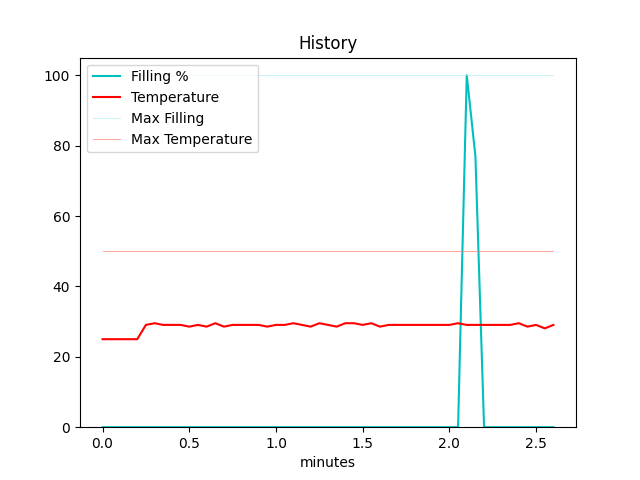
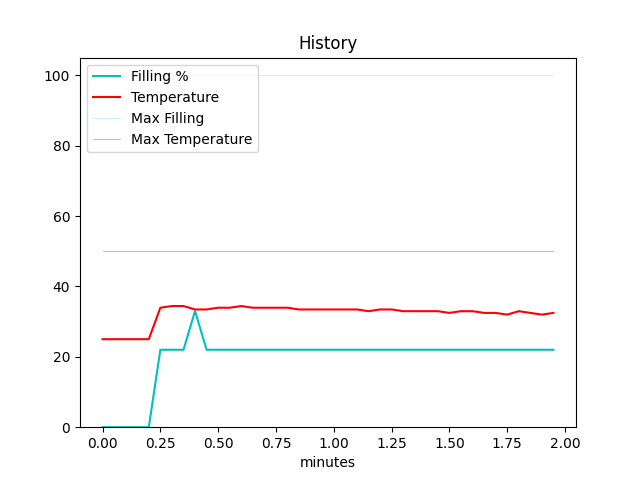
fix(tasks): adjusted timings and operator intervent time

diff --git a/src/arduino/Smart_Waste_Disposal/src/main.cpp b/src/arduino/Smart_Waste_Disposal/src/main.cpp
@@ -15,11 +15,11 @@
 #include "tasks/TemperatureTask.hpp"
 #include "tasks/CommunicationTask.hpp"
 
-#define SCHEDULER_BASE_TIME 250
-#define TEMPERATURE_TASK_BASE_TIME 500
-#define FILLING_TASK_BASE_TIME 500
-#define CONTAINER_TASK_BASE_TIME 250
-#define COMMUNICATION_TASK_BASE_TIME 250
+#define SCHEDULER_BASE_TIME 150
+#define TEMPERATURE_TASK_BASE_TIME 300
+#define FILLING_TASK_BASE_TIME 300
+#define CONTAINER_TASK_BASE_TIME 150
+#define COMMUNICATION_TASK_BASE_TIME 450
 
 #define CLOSE_BUTTON_PIN 9
 #define OPEN_BUTTON_PIN 8

diff --git a/src/arduino/Smart_Waste_Disposal/src/tasks/TemperatureTask.cpp b/src/arduino/Smart_Waste_Disposal/src/tasks/TemperatureTask.cpp
@@ -4,7 +4,7 @@
 #define MAX_TEMP 50
 #define ALERT_TIME 5000
 
-#define RESTORING_TIME 10000
+#define RESTORING_TIME 15000
 
 TemperatureTask::TemperatureTask(int period) {
     Task::init(period);

diff --git a/src/arduino/Smart_Waste_Disposal/src/devices/ServoMotor.cpp b/src/arduino/Smart_Waste_Disposal/src/devices/ServoMotor.cpp
@@ -2,7 +2,7 @@
 #include <Arduino.h>
 #include <Servo.h>
 
-#define MOVING_TIME 100.0
+#define MOVING_TIME 70.0
 #define DEFAULT_POSITION 180
 
 ServoMotor::ServoMotor(int pin) {

diff --git a/src/arduino/Smart_Waste_Disposal/src/tasks/FillingTask.cpp b/src/arduino/Smart_Waste_Disposal/src/tasks/FillingTask.cpp
@@ -3,7 +3,7 @@
 
 #define CONTAINER_FULL 100.0
 
-#define EMPTY_TIME 10000
+#define EMPTY_TIME 15000
 
 FillingTask::FillingTask(int period) {
     Task::init(period);
